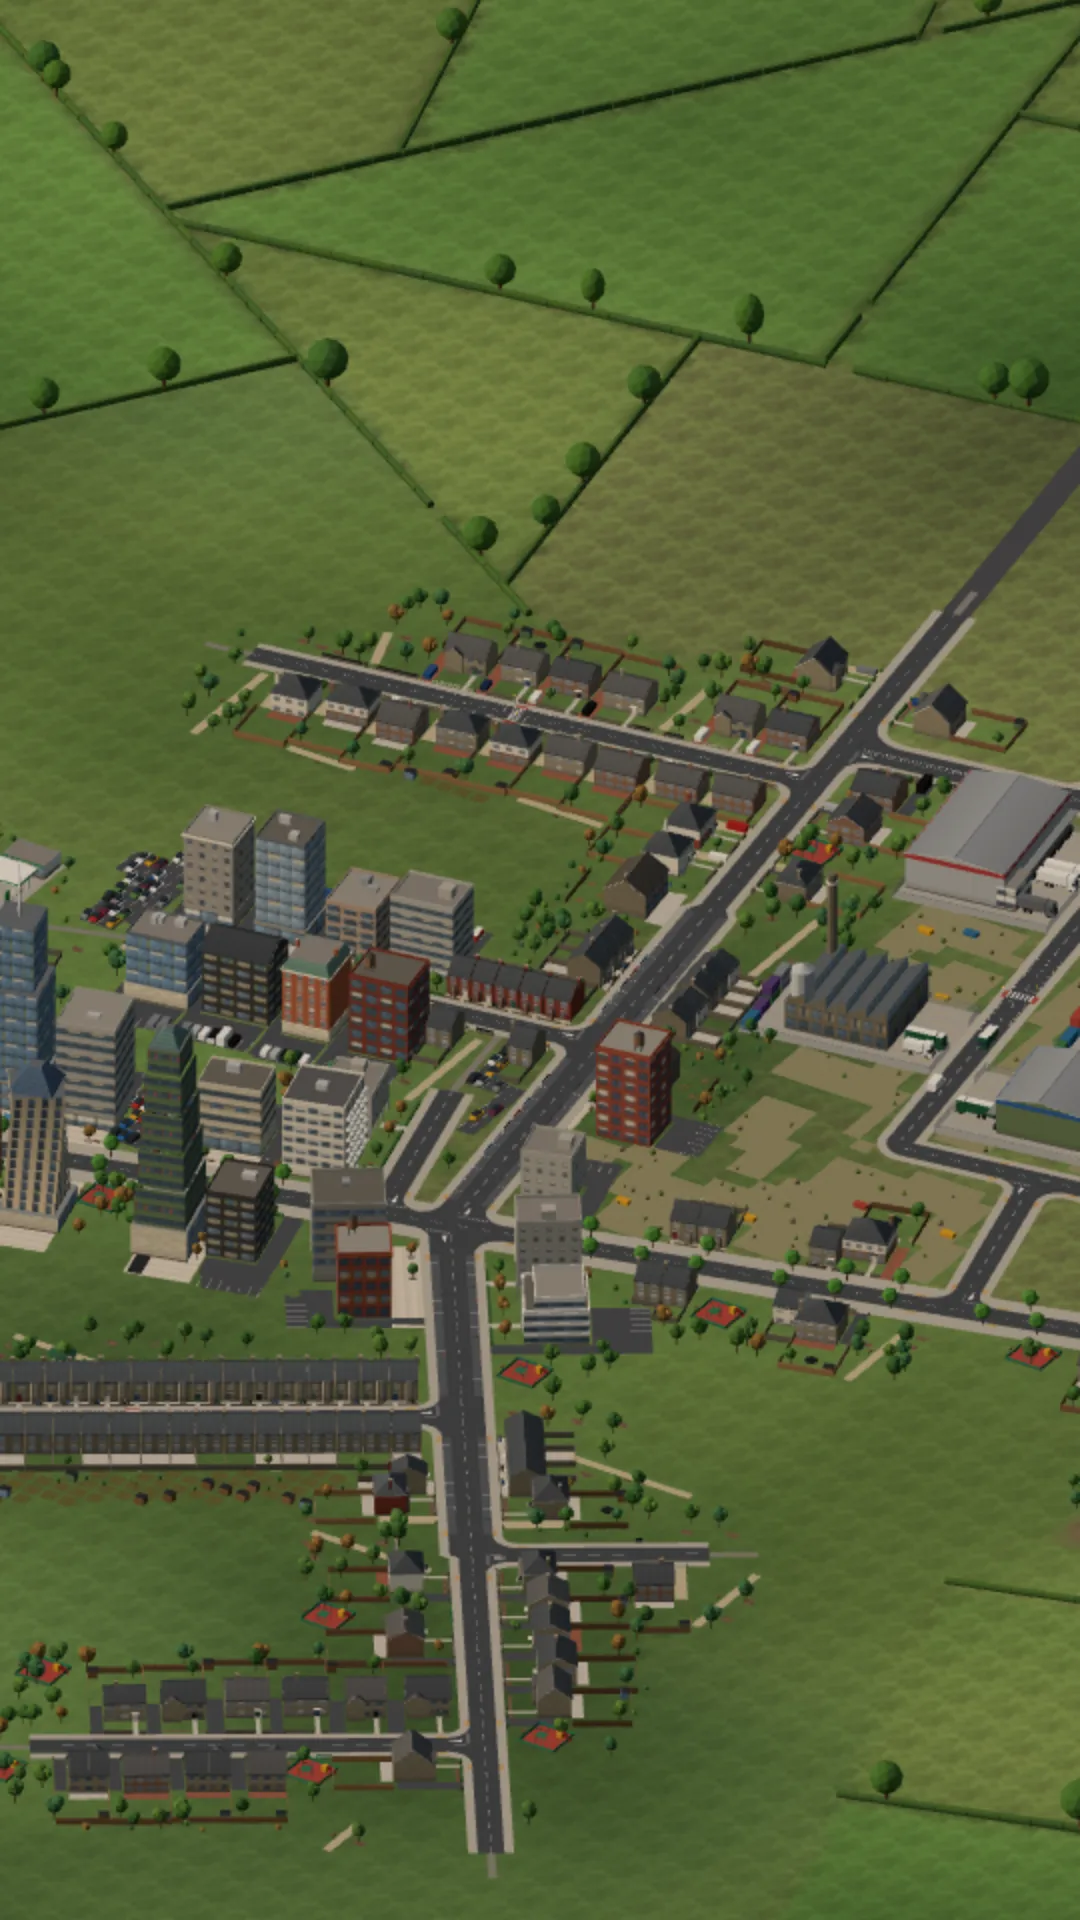
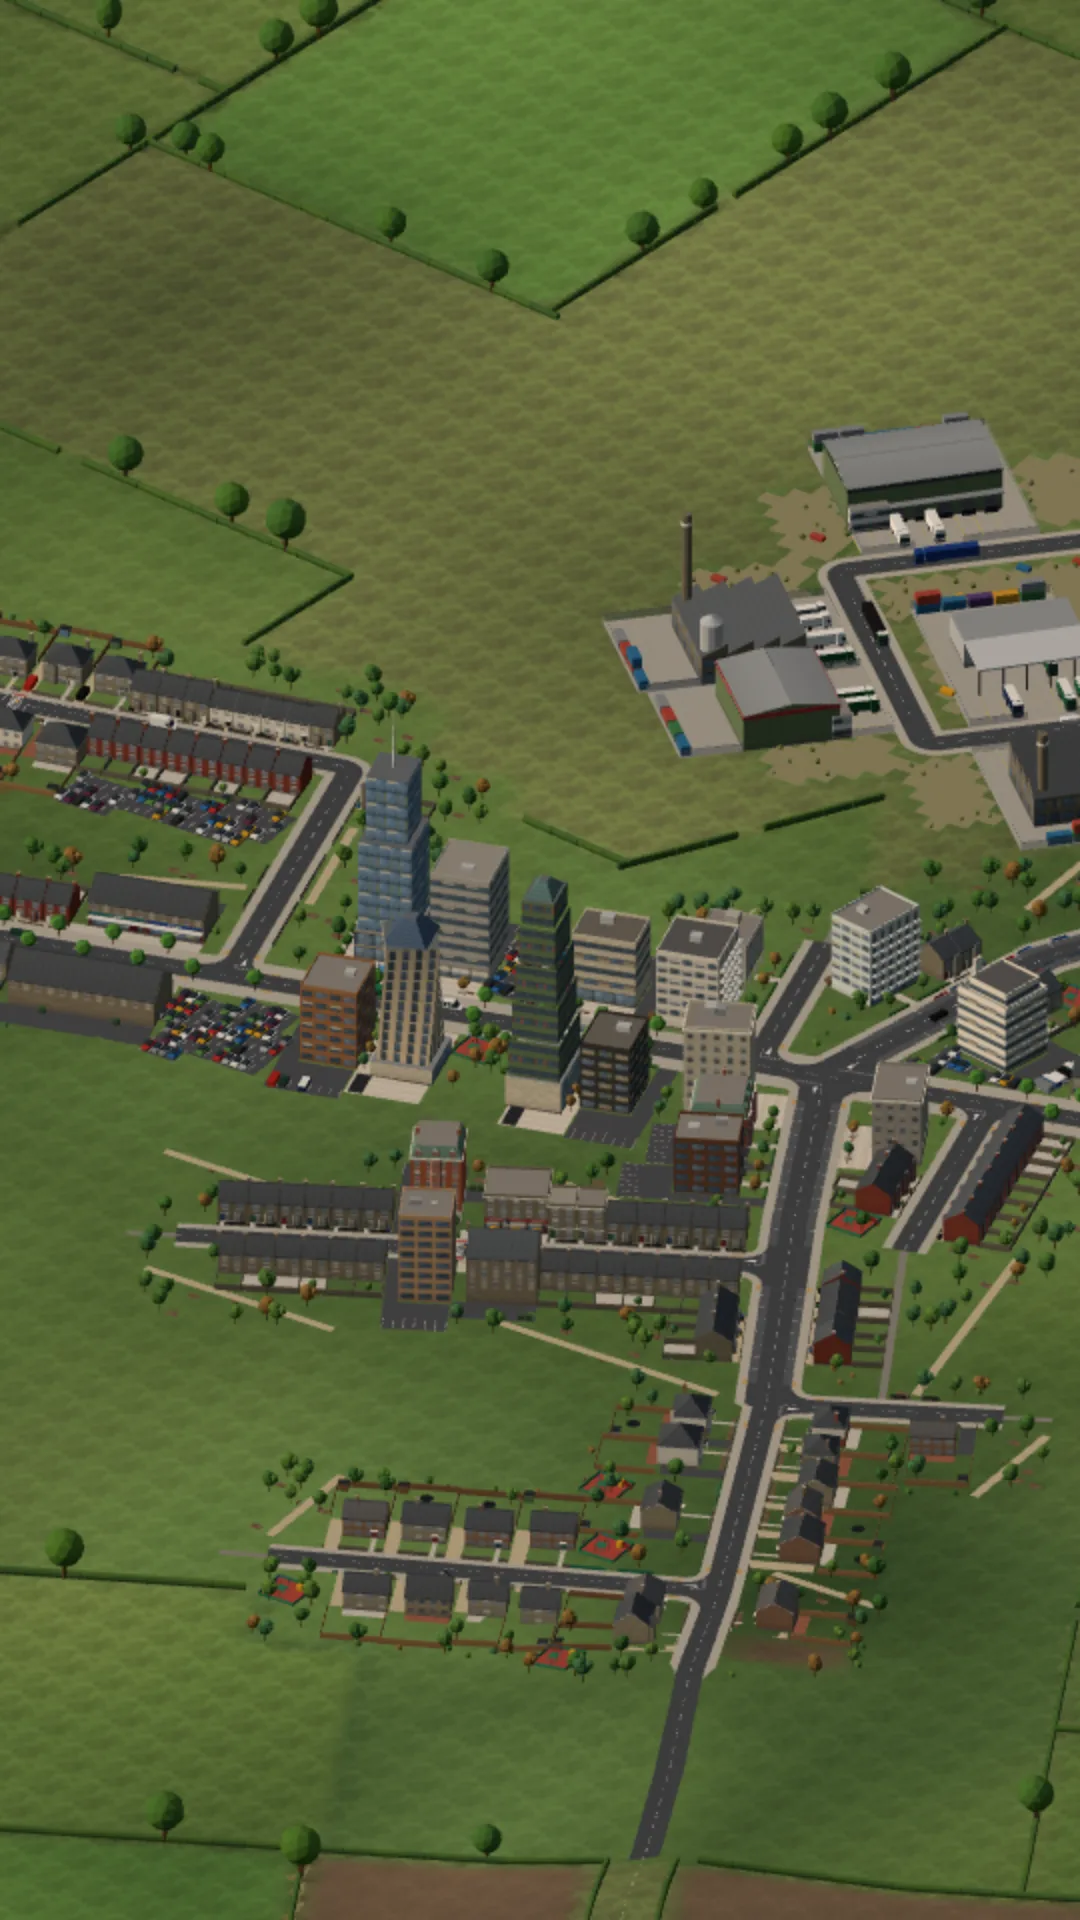
The start menu's pictures retaken from the town as it is after step 4
The hero pictures showed the town before its radials bent and its ribbons thinned. Retaken with
e2e/art.mjs; the tall one is re-aimed at the town's middle (the centre's towers, the high street's
terraces and the ribbon curving south) rather than the industrial estate. The menu suite passes on
them.

Claude-Session: https://claude.ai/code/session_01N2xhRAKzQWsSt6RZQH8jdG

diff --git a/docs/briefs/realism.md b/docs/briefs/realism.md
@@ -84,8 +84,8 @@ Moretonhampstead 8 from its centre; Ludlow's are its A roads and lanes continuin
    place owns; a lane from each farmstead to its nearest lane, as `routes.ts` `spurs` does for industries,
    once the plan exposes the countryside's farm sites (the farms are the countryside session's, `#70`);
    (b) a town's radials wander 6–7° per 100 m against the real 11.3, the finer wiggle of a centreline that
-   85 m blocks can't carry; (c) villages 72 per 1,000 km² against 129–157 (`AUTO.villages`); (d) the hero
-   pictures (`src/app/art`) still show the town before its radials bent.
+   85 m blocks can't carry; (c) villages 72 per 1,000 km² against 129–157 (`AUTO.villages`). The hero
+   pictures (`src/app/art`) are retaken from the town as it is after step 4.
 
 ## Also mine, from the logic review (coordinator, 21:22 UTC; `docs/reports/review-2026-09-26.md` on `claude/review-2026-09-26`)
 Lower priority than step 4's PR and the stream above; in this PR or a small one of their own.
@@ -109,7 +109,7 @@ Lower priority than step 4's PR and the stream above; in this PR or a small one 
 | Lanes: the best-facing spoke, water at the stem, a blend into the course | live (#67); `region.test.ts` checks every lane on three plans |
 | Compare yardsticks: radials, junction shares, street pieces, orientation order | live (#67): `compare.mjs`, the places table in `seeded-vs-real.md`, within the real ranges |
 | Lane grades and density | measured: the seeded land is two to three times gentler than the bakes' (slope median 2.7–3.5% against 6.7–8.1%), so lane grades read low because of the ground, not the router; the fair yardstick, a lane's grade over the slope of its ground, was 0.44–0.46 against the real 0.52–0.6; the lanes' slope penalty (`PROFILES.B.climb`, 2 → 0.9) takes it to 0.49–0.54 (higher climbs match better still but tip `routes.test.ts`'s marginal motorway row, which re-plans its motorway over ground the lanes have eased: 0.057 against a 0.06 limit). Density: the plan makes 74 villages per 1,000 km² and no hamlets; the real bakes have 65–170 hamlets per 1,000 km² on top, each with lanes, which is most of the 800 vs 2,500–3,400 km gap. Hamlets (the coordinator, 01:50 UTC: do them): a `hamlet` kind in `KINDS` and the plan (`planWorld` makes them from `PRIORS.settlements.perThousandKm2.hamlet`, capped at 220), a few houses along one lane with two ways out and a close or two, lanes to their nearest neighbours as villages have; the scenery builds their houses (`towns.ts`), the buildings style them as villages (`vernacular.ts`), the places list names them (`game/places.ts`, `mapspec.ts`); trunk roads keep only a lane's margin from them (`routes.ts`). Seed 42: 220 hamlets, nearest neighbour 1.26 km at the median (real 1.1–1.24), 2 lanes each, ~95 people, lane km 800 → 1,100–1,140 (real 2,500–3,400: the rest is farm lanes and tracks no place owns). Checked at 412×915 from 2.5 km and 400 m (`docs/reports/os/exits.md`, Hamlets). The trunk-route test now eases the ground along its own routes before measuring their grades, as the game does. On PR #71, not live; the start town and its lanes are unchanged by them, and the frame rate at the start view is the same |
-| Side-by-side evidence at 6 km / 1 km, hero pictures retaken | live (#67): hero pictures retaken from the radial town (`src/app/art`); Moretonhampstead (Exe bake, 2,180 people) against the seeded start town at 412×915 from 6 km and 1 km, in `docs/reports/os/exits.md` (`side-*.jpg`): the same compact blob at a meeting of roads with ribbons along the radials; the real town has more lanes round it, bends with its roads and thins out along them |
+| Side-by-side evidence at 6 km / 1 km, hero pictures retaken | live (#67), the hero pictures retaken again after step 4 (`e2e/art.mjs`, the tall one re-aimed at the town's middle; the menu suite passes on them); Moretonhampstead (Exe bake, 2,180 people) against the seeded start town at 412×915 from 6 km and 1 km, in `docs/reports/os/exits.md` (`side-*.jpg`): the same compact blob at a meeting of roads with ribbons along the radials; the real town has more lanes round it, bends with its roads and thins out along them |
 | Review bug 11 (failed tiles asked for for ever) | committed (`view.ts`: three tries, each wait twice the last, then left alone; `view.fail.test.ts`, the review's test); live (#67) |
 | Park pond (coordinator, 26 Sep 23:46 UTC, on PR #67: after it lands, a park pond as a level surface in a hollow with an irregular outline, through the water system, or a clear note here on why not yet) | the water and terrain side is done and tested (`worldmap/water.ts` `addPond`, `pondAt`, `MapWater.addLake`; `terrain.ts` lays the ground level to a pond and cuts its hollow; `worldmap/pond.test.ts`: a level surface at the ground's height, an outline that wanders and is never a circle, a bed below the water, a rim rising to the land within three times its radius, the land beyond untouched, water to `kindAt`, `edgeDistance`, `wet`); what remains is the game's side, the play session's files (`docs/water.md`, Park ponds): the park planner calling `addPond`, handing the spec to the game's water (`shapes.addLake`), remaking the relief field's box, rebuilding the water tile, the ground mesh and the claims round it; no pond is drawn until then, so no screenshot yet |
 | Review: bounded coarse growth, no jump on activation | growth bounded, committed (`econ.ts` eases off towards half again the planned size; `econ.test.ts`); the jump on activation is `main.ts`, the play session's, noted in the PR; live (#67) |
